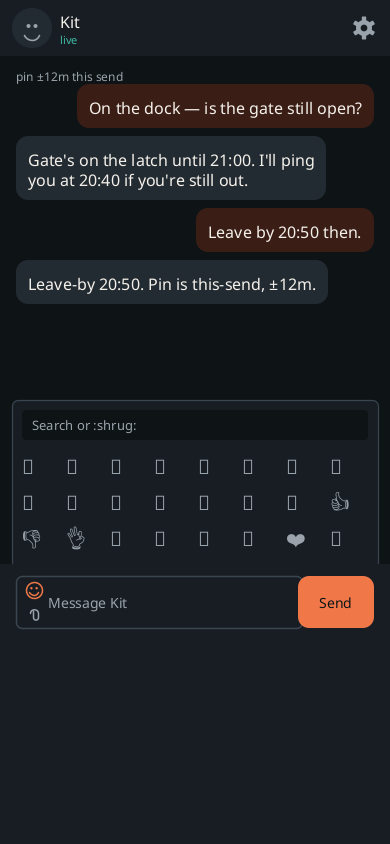
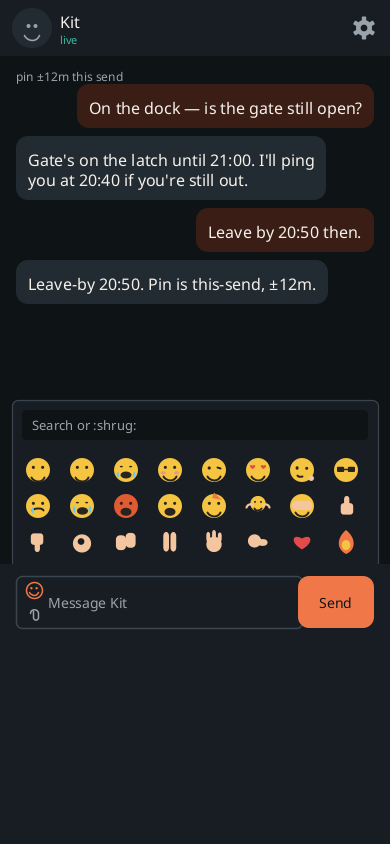
updating features, screen shots, and tests

diff --git a/app/src/test/java/com/gantree/cab/ui/DocsShotTest.kt b/app/src/test/java/com/gantree/cab/ui/DocsShotTest.kt
@@ -40,6 +40,18 @@ class DocsShotTest {
   }
 
   @Test
+  fun emojiPickerPaintsFaces() {
+    val img = renderDocsShot("phone-emoji")
+    var yellow = 0
+    for (y in 450 until 560) {
+      for (x in 20 until 370) {
+        if (img.getRGB(x, y) and 0xFFFFFF == 0xF5C542) yellow += 1
+      }
+    }
+    assertTrue(yellow > 80)
+  }
+
+  @Test
   fun writesNamedPngsWhenAsked() {
     if (System.getenv("CAB_WRITE_SHOTS") != "1") {
       return
